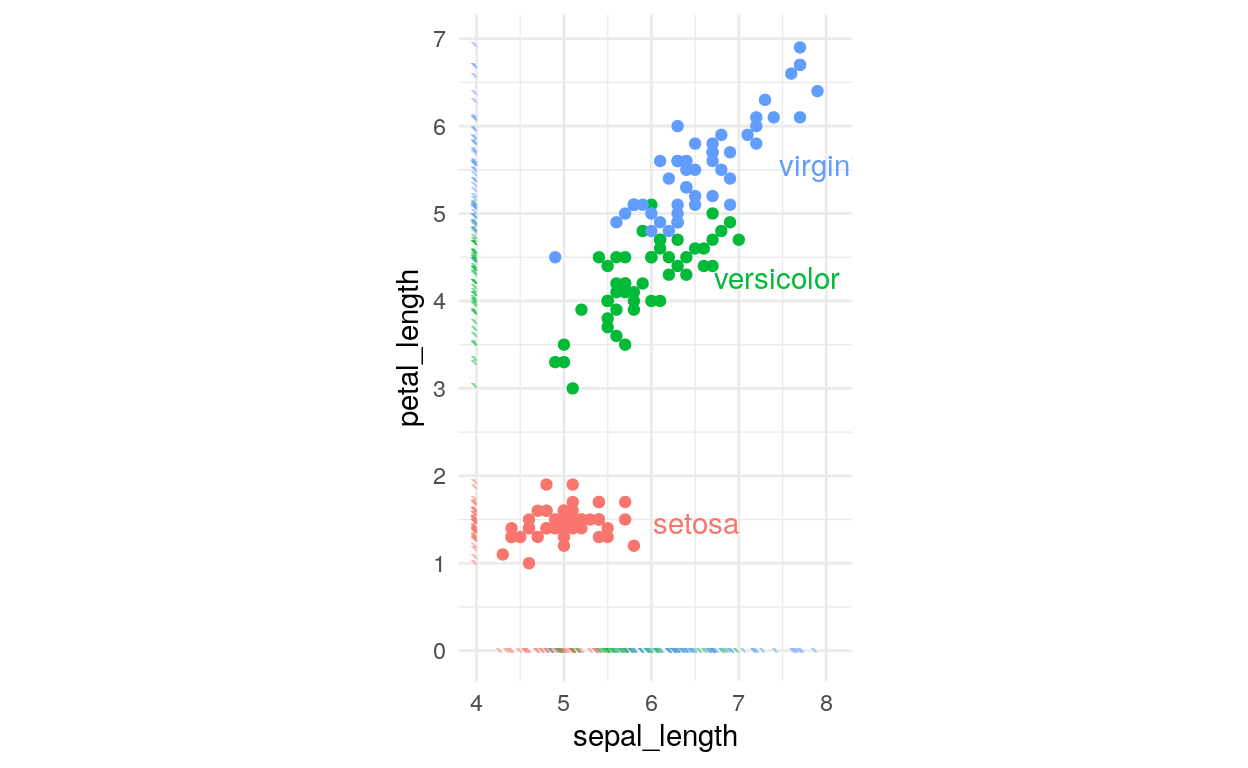
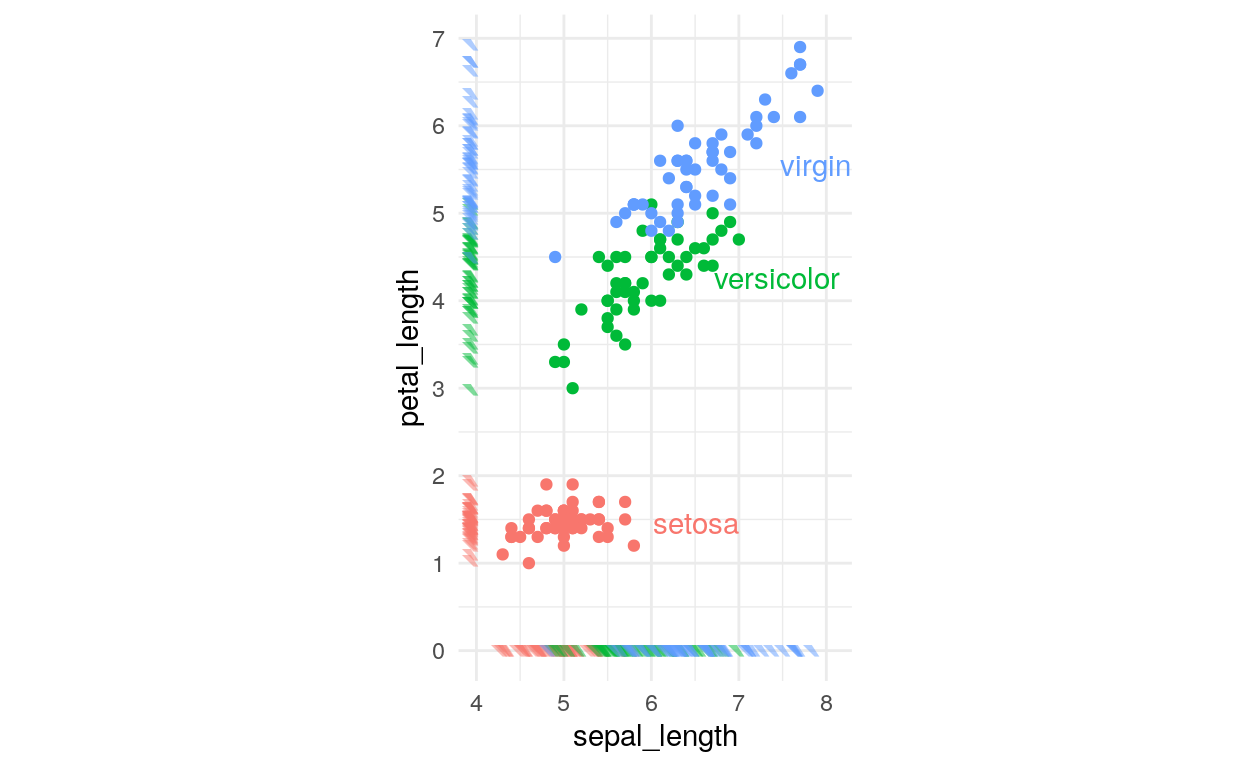
change colors

diff --git a/docs/01strip.html b/docs/01strip.html
@@ -1381,8 +1381,8 @@ plot(p)</code></pre>
 <div class="layout-chunk" data-layout="l-body">
 <pre class="r"><code>
 p &lt;- p +
-  geom_jitter(aes(x = 4, y = petal_length), width = 0, shape = 96, size = 4, alpha = .5) +
-  geom_jitter(aes(x = sepal_length, y = 0), height = 0, shape = 96, size = 4, alpha = .5) +
+  geom_jitter(aes(x = 4, y = petal_length), width = 0, shape = 96, size = 10, alpha = .5) +
+  geom_jitter(aes(x = sepal_length, y = 0), height = 0, shape = 96, size = 10, alpha = .5) +
   NULL
 plot(p)</code></pre>
 <p><img src="01strip_files/figure-html5/unnamed-chunk-8-1.png" width="624" /></p>
@@ -1427,10 +1427,17 @@ plot(p)</code></pre>
 <p>Now we can mute the colours a bit.</p>
 <div class="layout-chunk" data-layout="l-body">
 <pre class="r"><code>
+avg_color &lt;- function(hexs){
+  rgbs &lt;- map(hexs, col2rgb)
+  rescaled &lt;- do.call(cbind, rgbs)/255
+  avg &lt;- rowMeans(rescaled)
+  do.call(rgb, as.list(avg))
+}
+avg_traffic &lt;- avg_color(tableau_color_pal(&quot;Traffic&quot;)(3))
 p &lt;- p +
-  theme(axis.ticks = element_line(colour = &quot;#E0C89D&quot;),
-        text = element_text(colour = &quot;#E0C89D&quot;)) + 
-  scale_color_manual(values = c(&quot;#F5BB5C&quot;, &quot;#D96725&quot;, &quot;#731702&quot;)) +
+  theme(axis.ticks = element_line(colour = avg_traffic),
+        text = element_text(colour = avg_traffic)) + 
+  scale_colour_tableau(&quot;Traffic&quot;) +
   NULL
 plot(p)</code></pre>
 <p><img src="01strip_files/figure-html5/unnamed-chunk-12-1.png" width="624" /></p>
